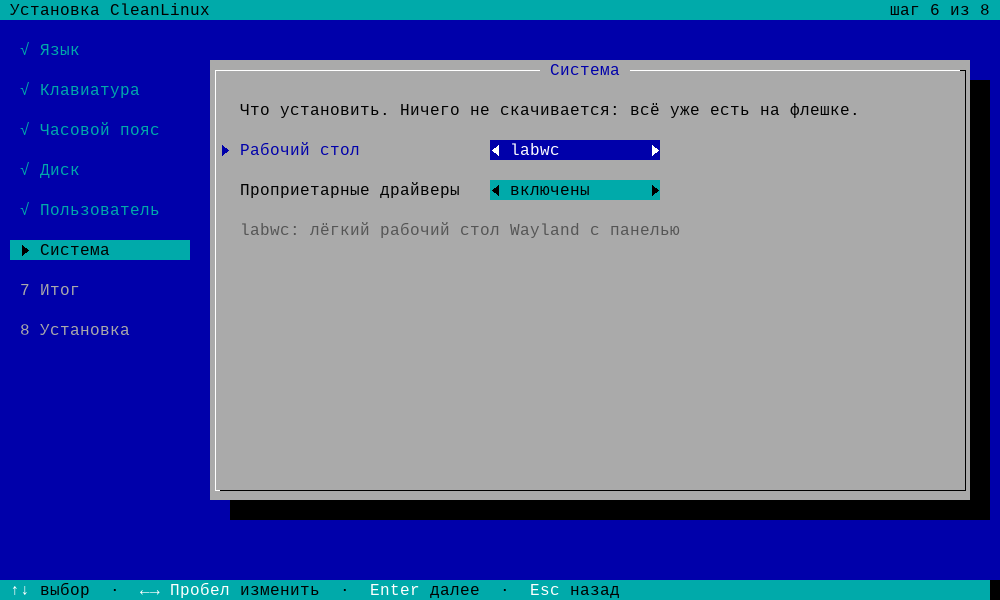
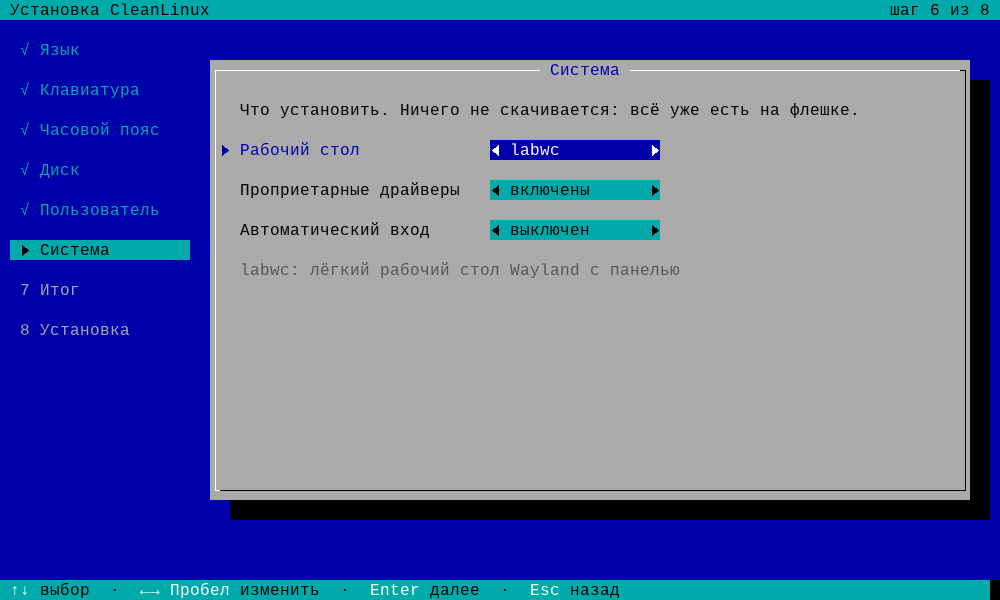
0.8.0: automatic login on tty1 (--autologin, the System screen: on by default for handhelds, whose profile has the feature handheld); /etc/cleanlinux/autologin for the getty of cleanlinux-boot 0.5.1

diff --git a/src/main.c b/src/main.c
@@ -56,7 +56,7 @@ static struct {
 	const char *timezone, *keymap, *font, *source, *spin;
 	strv packages;
 	unsigned esp_mib;
-	bool yes, dry_run, keep_mounted, no_efi_entry, target_given, no_nonfree, clone;
+	bool yes, dry_run, keep_mounted, no_efi_entry, target_given, no_nonfree, clone, autologin;
 } o = {.target = "/mnt", .hostname = "cleanlinux", .esp_mib = 512};
 
 static strv mounted; /* mount points made here, in order */
@@ -100,6 +100,8 @@ static _Noreturn void usage(int code)
 		   "      --root-password-file F  the root password: the first line of F (- for stdin);\n"
 		   "                              asked on the terminal when not given\n"
 		   "      --user-password-file F  the same for the user\n"
+		   "      --autologin             the user logs in on tty1 by itself, without a password\n"
+		   "                              (handhelds: no keyboard to type one; a spin starts there)\n"
 		   "  -s, --spin NAME             also the spin NAME of the live medium (spins/NAME: labwc)\n"
 		   "      --no-nonfree            without the proprietary drivers (the layer nonfree/ of the\n"
 		   "                              medium), and burn builds none (ALLOW_NONFREE=0)\n"
@@ -604,6 +606,19 @@ static void users(const char *root_hash, const char *user_hash)
 		free(gp);
 	}
 	set_password(o.user, user_hash);
+	/* cleanlinux-boot's getty logs the user in on tty1 (cleanlinux.autologin=0 turns it off) */
+	char *al = tpath("/etc/cleanlinux/autologin");
+	if (o.autologin) {
+		char *t = xasprintf("# the user who logs in on tty1 by itself (cleanlinux-boot getty); empty: nobody\n%s\n",
+				    o.user);
+		put_file(al, t, 0644, true);
+		free(t);
+	} else if (exists(al)) {
+		info("remove %s", al);
+		if (!o.dry_run && unlink(al) < 0)
+			warn_errno("remove %s", al);
+	}
+	free(al);
 }
 
 static void enable_service(const char *name)
@@ -763,13 +778,14 @@ static char *get_password(const char *who, const char *file)
 int main(int argc, char **argv)
 {
 	enum { OPT_ROOT_PW = 256, OPT_USER_PW, OPT_CMDLINE, OPT_ESP, OPT_NO_EFI, OPT_KEEP, OPT_TZ, OPT_KEYMAP, OPT_FONT,
-	       OPT_SOURCE, OPT_NO_NONFREE, OPT_NONFREE, OPT_CLONE };
+	       OPT_SOURCE, OPT_NO_NONFREE, OPT_NONFREE, OPT_CLONE, OPT_AUTOLOGIN };
 	static const struct option longopts[] = {
 		{"target", required_argument, NULL, 't'},
 		{"hostname", required_argument, NULL, 'H'},
 		{"user", required_argument, NULL, 'u'},
 		{"root-password-file", required_argument, NULL, OPT_ROOT_PW},
 		{"user-password-file", required_argument, NULL, OPT_USER_PW},
+		{"autologin", no_argument, NULL, OPT_AUTOLOGIN},
 		{"spin", required_argument, NULL, 's'},
 		{"no-nonfree", no_argument, NULL, OPT_NO_NONFREE},
 		{"nonfree", no_argument, NULL, OPT_NONFREE},
@@ -798,6 +814,7 @@ int main(int argc, char **argv)
 		case 'u': o.user = optarg; break;
 		case OPT_ROOT_PW: o.root_pw_file = optarg; break;
 		case OPT_USER_PW: o.user_pw_file = optarg; break;
+		case OPT_AUTOLOGIN: o.autologin = true; break;
 		case 's': o.spin = optarg; break;
 		case OPT_NO_NONFREE: o.no_nonfree = true; break;
 		case OPT_NONFREE: o.no_nonfree = false; break;
@@ -844,6 +861,8 @@ int main(int argc, char **argv)
 		die("--spin %s: the name of a spin such as labwc", o.spin);
 	if (o.user_pw_file && !o.user)
 		die("--user-password-file needs --user");
+	if (o.autologin && !o.user)
+		die("--autologin needs --user");
 	if (o.packages.n)
 		o.clone = true;
 	if (o.clone && o.source)

diff --git a/src/setup.c b/src/setup.c
@@ -1007,10 +1007,24 @@ static int form_screen(const char *title, const char *text, struct field *f, int
 static struct {
 	int kmap, disk, spin; /* spin: in spins[], -1: the console only */
 	char zone[96];
-	bool nonfree, keep_profile;
+	bool nonfree, keep_profile, autologin;
 	char host[65], user[33], upw[128], upw2[128];
 	const char *font;
 } st = {.kmap = 0, .disk = -1, .spin = -1, .nonfree = true};
+
+/* does the profile NAME (NULL: the running one) have the feature handheld: a device without a
+ * keyboard, which logs in by itself (burn profile show) */
+static bool profile_handheld(const char *name)
+{
+	char *const with[] = {"burn", "-p", (char *)name, "profile", "show", NULL};
+	char *const cur[] = {"burn", "profile", "show", NULL};
+	char *out = run_output(name ? with : cur);
+	char *f = kv_value(out, "features");
+	bool h = has_word(f, "handheld");
+	free(f);
+	free(out);
+	return h;
+}
 
 static void wipe_secrets(void)
 {
@@ -1448,7 +1462,7 @@ static const char *spin_desc(const struct spin *s)
 static int scr_system(int dir)
 {
 	(void)dir;
-	struct choice o[3];
+	struct choice o[4];
 	int n = 0;
 	/* the desktop: the spins of the medium, or none */
 	char **dv = xmalloc(((size_t)nspins + 1) * sizeof(char *)), **dn = xmalloc(((size_t)nspins + 1) * sizeof(char *));
@@ -1483,11 +1497,20 @@ static int scr_system(int dir)
 		pn[1] = xstrdup(T(S_PROFILE_NOTE_KEEP));
 		o[n++] = (struct choice){S_SYS_PROFILE, 2, st.keep_profile ? 1 : 0, pv, pn};
 	}
+	/* the login on tty1: by itself on handhelds (their profile), with a password elsewhere */
+	char **av = xmalloc(2 * sizeof(char *)), **an = xmalloc(2 * sizeof(char *));
+	av[0] = xstrdup(T(S_AUTOLOGIN_YES));
+	av[1] = xstrdup(T(S_AUTOLOGIN_NO));
+	an[0] = tf(S_AUTOLOGIN_YES_NOTE, st.user);
+	an[1] = xstrdup(T(S_AUTOLOGIN_NO_NOTE));
+	int al = n;
+	o[n++] = (struct choice){S_SYS_AUTOLOGIN, 2, st.autologin ? 0 : 1, av, an};
 	int r = options_screen(T(S_SYS_TITLE), T(S_SYS_TEXT), o, n);
 	st.spin = o[0].sel == nspins ? -1 : o[0].sel;
 	st.nonfree = o[1].sel == 0;
 	if (prof_dev)
 		st.keep_profile = o[2].sel == 1;
+	st.autologin = o[al].sel == 0;
 	for (int i = 0; i < n; i++) {
 		for (int v = 0; v < o[i].n; v++) {
 			free(o[i].values[v]);
@@ -1522,6 +1545,7 @@ static int scr_summary(int dir)
 		{S_SUM_DESKTOP, xstrdup(st.spin >= 0 ? spins[st.spin].name : T(S_SYS_CONSOLE))},
 		{S_SUM_NONFREE, xstrdup(T(st.nonfree ? S_ON : S_OFF))},
 		{S_SUM_PROFILE, xstrdup(chosen_profile() ? chosen_profile() : prof_cur ? prof_cur : "-")},
+		{S_SUM_AUTOLOGIN, xstrdup(T(st.autologin ? S_AUTOLOGIN_YES : S_AUTOLOGIN_NO))},
 	};
 	int lw = 0;
 	for (size_t i = 0; i < ARRAY_LEN(rows); i++)
@@ -1713,6 +1737,8 @@ static int run_installer(struct tail *t)
 	strv_push(&a, rf);
 	strv_push(&a, "--user-password-file");
 	strv_push(&a, uf);
+	if (st.autologin)
+		strv_push(&a, "--autologin");
 	if (st.spin >= 0) {
 		strv_push(&a, "--spin");
 		strv_push(&a, spins[st.spin].name);
@@ -2003,6 +2029,8 @@ int main(int argc, char **argv)
 	load_zones();
 	load_profiles();
 	load_medium();
+	/* handhelds log in by itself: the device's profile (when it is used) or the image's */
+	st.autologin = profile_handheld(prof_dev);
 	char *lt = realpath("/etc/localtime", NULL);
 	const char *z = lt ? strstr(lt, "zoneinfo/") : NULL;
 	if (z && valid_zone(z + 9))

diff --git a/src/setup_text.h b/src/setup_text.h
@@ -65,6 +65,11 @@ enum {
 	S_PROFILE_KEEP,
 	S_PROFILE_NOTE,
 	S_PROFILE_NOTE_KEEP,
+	S_SYS_AUTOLOGIN,
+	S_AUTOLOGIN_YES,
+	S_AUTOLOGIN_NO,
+	S_AUTOLOGIN_YES_NOTE,
+	S_AUTOLOGIN_NO_NOTE,
 	S_SUM_TITLE,
 	S_SUM_DISK,
 	S_SUM_KEYMAP,
@@ -74,6 +79,7 @@ enum {
 	S_SUM_DESKTOP,
 	S_SUM_NONFREE,
 	S_SUM_PROFILE,
+	S_SUM_AUTOLOGIN,
 	S_SUM_WARN,
 	S_INSTALL,
 	S_CONFIRM_TITLE,
@@ -219,6 +225,17 @@ static const char *const strings[S_COUNT][2] = {
 				 "keeps it so.",
 				 "Профиль образа: система работает на любом таком компьютере; burn update так "
 				 "её и оставит."},
+	[S_SYS_AUTOLOGIN] = {"Automatic login", "Автоматический вход"},
+	[S_AUTOLOGIN_YES] = {"on", "включён"},
+	[S_AUTOLOGIN_NO] = {"off", "выключен"},
+	[S_AUTOLOGIN_YES_NOTE] = {"%s logs in on the screen by itself and the desktop starts at once: a handheld "
+				  "has no keyboard for a password. The password stays for administration (root, "
+				  "polkit) and the other consoles.",
+				  "%s входит сам, и рабочий стол открывается сразу: у портативной консоли нет "
+				  "клавиатуры для пароля. Пароль остаётся для администрирования (root, polkit) "
+				  "и других консолей."},
+	[S_AUTOLOGIN_NO_NOTE] = {"The login asks for the name and the password; the desktop starts after it.",
+				 "При входе спрашиваются имя и пароль; рабочий стол открывается после входа."},
 	[S_SUM_TITLE] = {"Ready to install", "Всё готово к установке"},
 	[S_SUM_DISK] = {"Disk", "Диск"},
 	[S_SUM_KEYMAP] = {"Keyboard", "Клавиатура"},
@@ -228,6 +245,7 @@ static const char *const strings[S_COUNT][2] = {
 	[S_SUM_DESKTOP] = {"Desktop", "Рабочий стол"},
 	[S_SUM_NONFREE] = {"Proprietary drivers", "Проприетарные драйверы"},
 	[S_SUM_PROFILE] = {"Profile", "Профиль"},
+	[S_SUM_AUTOLOGIN] = {"Automatic login", "Автоматический вход"},
 	[S_SUM_WARN] = {"ALL DATA ON %s WILL BE ERASED.", "ВСЕ ДАННЫЕ НА %s БУДУТ СТЁРТЫ."},
 	[S_INSTALL] = {"Install", "Установить"},
 	[S_CONFIRM_TITLE] = {"Erase the disk?", "Стереть диск?"},

diff --git a/tests/setup.py b/tests/setup.py
@@ -357,6 +357,11 @@ def test_english(binary, tmp, data):
     t.wait_for("not free software (steamdeck-dsp)", "ALLOW_NONFREE=1")
     t.send(" ")
     t.wait_for("◄ off", "Only free software", "ALLOW_NONFREE=0")
+    # the login: with a password (not a handheld's profile), switched to automatic
+    t.send(DOWN)
+    t.wait_for("Automatic login", "The login asks for the name and the password")
+    t.send(" ")
+    t.wait_for("anna logs in on the screen by itself", "no keyboard for a password")
     t.send(ENTER)
     scr = t.wait_for("Ready to install", "/dev/vdb  QEMU HARDDISK  20.0 GiB", "German (de-latin1)", "Europe/Moscow",
                      "testbox", "anna", "labwc", "off", "ALL DATA ON /dev/vdb WILL BE ERASED.", "< Install >",
@@ -379,6 +384,7 @@ def test_english(binary, tmp, data):
         check(a in args and args[args.index(a) + 1] == b, "%s %s in %r" % (a, b, args))
     check("--no-nonfree" in args and "--encrypt" not in args and args[-2] == "/dev/vdb",
           "no proprietary drivers, the disk last: %r" % args)
+    check("--autologin" in args, "automatic login: %r" % args)
     secrets = open(os.path.join(out, "secrets")).read()
     check("--root-password-file 600 pw1\n" in secrets and "--user-password-file 600 pw1\n" in secrets,
           "the password files: %r" % secrets)
@@ -440,8 +446,8 @@ def test_russian(binary, tmp, data):
     t.send(ENTER, RIGHT, ENTER)
     scr = t.wait_for("Установка не удалась", "код 3", "error: something broke", timeout=20)
     args = open(os.path.join(out, "args")).read().split("\n")
-    check("--spin" not in args and "--no-nonfree" not in args and "--encrypt" not in args,
-          "the console, the drivers: %r" % args)
+    check("--spin" not in args and "--no-nonfree" not in args and "--encrypt" not in args and "--autologin" not in args,
+          "the console, the drivers, a login with a password: %r" % args)
     check(args[args.index("--keymap") + 1] == "ruwin_alt_sh-UTF-8" and args[args.index("--font") + 1] == "latarcyrheb-sun16",
           "the Russian keymap and a Cyrillic font: %r" % args)
     secrets = open(os.path.join(out, "secrets")).read()

diff --git a/src/plan.c b/src/plan.c
@@ -494,12 +494,13 @@ char *conf_get(const char *text, const char *key)
 	return val;
 }
 
-char *detected_profile(const char *out)
+char *kv_value(const char *out, const char *key)
 {
+	size_t kl = strlen(key);
 	for (const char *p = out; p && *p;) {
 		size_t len = strcspn(p, "\n");
-		if (len > 7 && !strncmp(p, "profile", 7) && (p[7] == ' ' || p[7] == '\t')) {
-			const char *v = p + 7, *end = p + len;
+		if (len > kl && !strncmp(p, key, kl) && (p[kl] == ' ' || p[kl] == '\t')) {
+			const char *v = p + kl, *end = p + len;
 			while (v < end && (*v == ' ' || *v == '\t'))
 				v++;
 			while (end > v && (end[-1] == ' ' || end[-1] == '\t' || end[-1] == '\r'))
@@ -511,6 +512,21 @@ char *detected_profile(const char *out)
 			p++;
 	}
 	return NULL;
+}
+
+char *detected_profile(const char *out) { return kv_value(out, "profile"); }
+
+bool has_word(const char *list, const char *word)
+{
+	size_t wl = strlen(word);
+	for (const char *p = list; p && *p;) {
+		p += strspn(p, " \t");
+		size_t len = strcspn(p, " \t");
+		if (len == wl && !strncmp(p, word, wl))
+			return true;
+		p += len;
+	}
+	return false;
 }
 
 char *cmdline_text(const char *root, const char *rootflags, const char *extra)

diff --git a/tests/unit.c b/tests/unit.c
@@ -258,6 +258,10 @@ int main(void)
 	check_str("detect", detected_profile("arch       x86_64\nmodel      Jupiter\nprofile    steam-deck\n"),
 		  "steam-deck");
 	check_str("detect: none", detected_profile("arch x86_64\n"), NULL);
+	check_str("kv", kv_value("profile    steam-deck\nfeatures   battery handheld \n", "features"), "battery handheld");
+	check_str("kv: a longer key is not the key", kv_value("featuresx a\n", "features"), NULL);
+	CHECK(has_word("+lto handheld battery", "handheld"), "has_word: handheld");
+	CHECK(!has_word("handhelds battery", "handheld") && !has_word("", "handheld"), "has_word: not a part of a word");
 
 	/* the kernel command line */
 	check_str("cmdline", cmdline_text("PARTUUID=abc", "subvol=@", "quiet"),

diff --git a/src/install.h b/src/install.h
@@ -52,6 +52,10 @@ char *conf_get(const char *text, const char *key);
 char *conf_unset(const char *text, const char *key);
 /* the profile line of `burn profile detect`; NULL without one */
 char *detected_profile(const char *out);
+/* the value of KEY in the "key  value" lines of burn's output (profile show, profile detect) */
+char *kv_value(const char *out, const char *key);
+/* is WORD one of the words of LIST (separated by blanks) */
+bool has_word(const char *list, const char *word);
 /* the kernel command line of the new system: ROOT is the value of root= (PARTUUID=… or a device) */
 char *cmdline_text(const char *root, const char *rootflags, const char *extra);
 bool valid_hostname(const char *s);

diff --git a/README.md b/README.md
@@ -68,7 +68,7 @@ image when the profile says so). No disk encryption: the base system has none. C
 | 3 | Часовой пояс | часть света → город (из `zone.tab` tzdata) или UTC; поиск по мере набора, и по-русски, и латиницей |
 | 4 | Диск | все диски с размером, моделью, шиной и тем, что на них сейчас (`ntfs, vfat`…); носитель установки, занятые и меньше 3.5 GiB выбрать нельзя |
 | 5 | Пользователь | имя компьютера, имя пользователя (в `wheel`), пароль дважды; root получает тот же пароль |
-| 6 | Система | **рабочий стол** — спины с флешки (`labwc`) или «нет (консоль)»; **проприетарные драйверы** — включены/выключены (`ALLOW_NONFREE`); **профиль** — если `burn profile detect` узнал устройство |
+| 6 | Система | **рабочий стол** — спины с флешки (`labwc`) или «нет (консоль)»; **проприетарные драйверы** — включены/выключены (`ALLOW_NONFREE`); **профиль** — если `burn profile detect` узнал устройство; **автоматический вход** — пользователь входит на tty1 сам и рабочий стол открывается сразу (по умолчанию включён для портативных консолей: у их профиля есть `handheld`) |
 | 7 | Итог | сводка; «Установить» → «Стереть диск?» (по умолчанию — «Назад») |
 | 8 | Установка | шаги, «Копирование системы: 45% · 1.1 GiB из 2.4 GiB», полоса и хвост журнала; затем перезагрузить, выключить или выйти в консоль |
 
@@ -92,6 +92,7 @@ image when the profile says so). No disk encryption: the base system has none. C
 ```sh
 cleanlinux-install /dev/nvme0n1                      # спросит подтверждение и пароль root
 cleanlinux-install --user anna --hostname deck --spin labwc /dev/sda   # с рабочим столом labwc
+cleanlinux-install --user anna --autologin --spin labwc /dev/mmcblk0   # консоль: вход и рабочий стол сами
 cleanlinux-install --no-nonfree /dev/sda             # только свободное ПО (ALLOW_NONFREE=0)
 cleanlinux-install --dry-run /dev/sda                # показать план, ничего не меняя
 cleanlinux-install --timezone Europe/Moscow --keymap ruwin_alt_sh-UTF-8 --font cyr-sun16 /dev/sda
@@ -119,6 +120,7 @@ cleanlinux-install --clone -p "base linux" /dev/sda  # пакетами burn clo
 | `--profile NAME` | профиль устройства для `burn update` (иначе подсказка из `burn profile detect`) |
 | `--hostname`, `--user`, `--timezone`, `--keymap`, `--font`, `--cmdline` | имя, пользователь, пояс, консоль, доп. аргументы ядра |
 | `--root-password-file`, `--user-password-file` | пароли из файлов (`-` — stdin) для автоматизации |
+| `--autologin` | пользователь (`--user`) входит на tty1 сам, без пароля: `/etc/cleanlinux/autologin` для getty из cleanlinux-boot 0.5.1 (`cleanlinux.autologin=0` в строке ядра отключает) |
 | `-t DIR`, `--esp-size MiB`, `--keep-mounted`, `--no-efi-entry`, `-y`, `-n` | цель, ESP, не отмонтировать, без записи NVRAM, без вопросов, пробный запуск |
 
 ## Откуда берётся система
